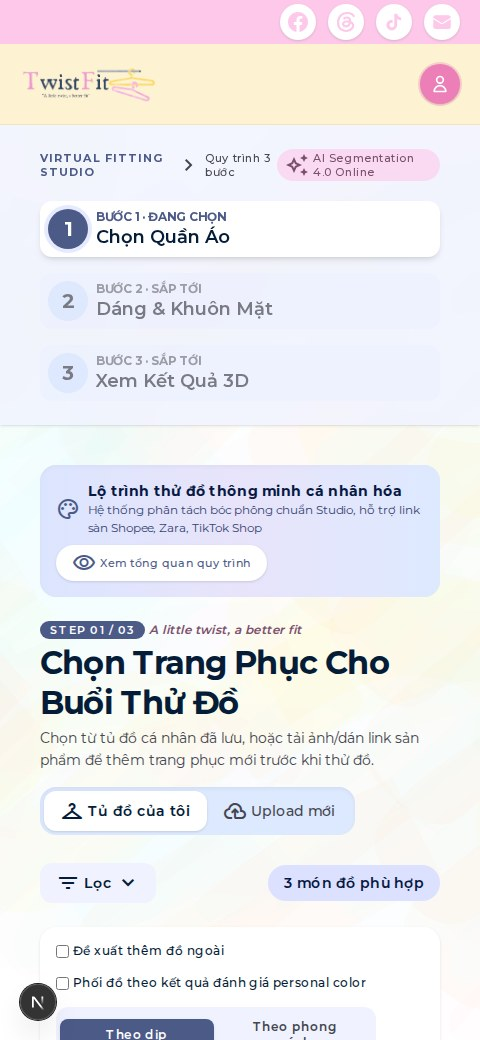
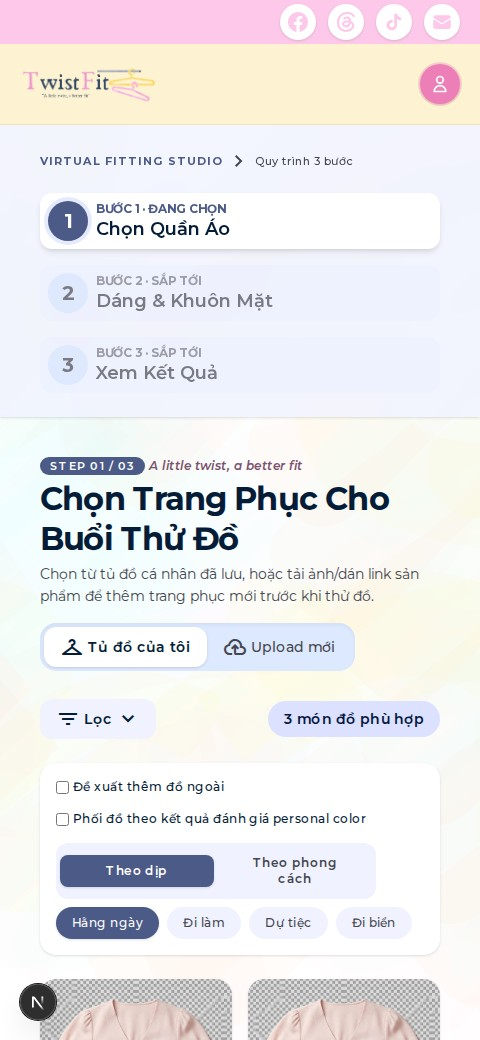
feat(home): recapture feature-showcase mockups and redesign with layered backgrounds
Replace the stale hand-edited mockup screenshots with real captures from
the live app (via headless Chromium), fixing the leftover "3D" wording
and swapping the broken Camera AR mockup for a real capture of the
/camera-frame page (oval placeholder patched to a gray checkerboard
since a live camera feed can't be captured headlessly).

Redesign the phone-mockup composition to match a reference layout: a
large background photo behind the phone (cropped from the raw content
folder via face-detection), with the phone overlapping to one side via
flexbox + negative margin instead of hand-tuned absolute-position math.

diff --git a/components/home/PhoneMockupStepper.tsx b/components/home/PhoneMockupStepper.tsx
@@ -4,6 +4,7 @@ type PhoneMockupStepperImage = {
   key: string
   src: string
   alt: string
+  bg?: string
 }
 
 type PhoneMockupStepperProps = {
@@ -16,10 +17,34 @@ export default function PhoneMockupStepper({ images, activeIndex, onSelect }: Ph
   const activeImage = images[activeIndex]
 
   return (
-    <div className="flex flex-col items-center gap-space-md">
-      <div className="w-full max-w-[240px] overflow-hidden rounded-[28px] border-[6px] border-on-surface shadow-xl">
-        {/* eslint-disable-next-line @next/next/no-img-element */}
-        <img src={activeImage.src} alt={activeImage.alt} className="block w-full" />
+    <div className="flex flex-col items-center gap-space-lg">
+      <div className="relative flex w-full max-w-[420px] items-center justify-center p-2 sm:p-4">
+        {activeImage.bg && (
+          <div className="relative z-10 -mr-8 h-[440px] w-[58%] -rotate-1 overflow-hidden rounded-3xl shadow-2xl transition-transform duration-500 hover:rotate-0 sm:-mr-10 sm:h-[500px] sm:w-[60%]">
+            {/* eslint-disable-next-line @next/next/no-img-element */}
+            <img src={activeImage.bg} alt="" aria-hidden="true" className="h-full w-full object-cover object-center" />
+          </div>
+        )}
+        <div
+          className={`relative z-20 h-[400px] w-[185px] shrink-0 overflow-hidden rounded-[32px] border-[7px] border-on-surface bg-surface shadow-2xl transition-transform duration-300 hover:-translate-y-1 sm:h-[450px] sm:w-[208px] ${
+            !activeImage.bg ? 'mx-auto' : ''
+          }`}
+        >
+          {/* eslint-disable-next-line @next/next/no-img-element */}
+          <img src={activeImage.src} alt={activeImage.alt} className="h-full w-full object-cover object-top" />
+        </div>
+        {activeImage.bg && (
+          <>
+            <div
+              aria-hidden="true"
+              className="absolute -left-6 -top-6 -z-10 h-40 w-40 rounded-full bg-secondary-container/40 blur-3xl"
+            />
+            <div
+              aria-hidden="true"
+              className="absolute -bottom-8 -right-8 -z-10 h-48 w-48 rounded-full bg-primary-fixed/50 blur-3xl"
+            />
+          </>
+        )}
       </div>
       <div className="flex items-center">
         {images.map((image, index) => (

diff --git a/lib/featureShowcaseSteps.ts b/lib/featureShowcaseSteps.ts
@@ -3,17 +3,42 @@ export type FeatureKey = 'colorTest' | 'outfit'
 export type FeatureStepImage = {
   key: string
   src: string
+  bg: string
 }
 
 export const FEATURE_STEP_IMAGES = {
   colorTest: [
-    { key: 'quiz', src: '/home/feature-steps/color-test-quiz.jpg' },
-    { key: 'result', src: '/home/feature-steps/color-test-result.jpg' },
-    { key: 'ar', src: '/home/feature-steps/color-test-ar.jpg' },
+    {
+      key: 'quiz',
+      src: '/home/feature-steps/color-test-quiz.jpg',
+      bg: '/home/feature-steps/backgrounds/color-test-quiz-bg.jpg',
+    },
+    {
+      key: 'result',
+      src: '/home/feature-steps/color-test-result.jpg',
+      bg: '/home/feature-steps/backgrounds/color-test-result-bg.jpg',
+    },
+    {
+      key: 'ar',
+      src: '/home/feature-steps/color-test-ar.jpg',
+      bg: '/home/feature-steps/backgrounds/color-test-ar-bg.jpg',
+    },
   ],
   outfit: [
-    { key: 'chooseGarment', src: '/home/feature-steps/outfit-choose-garment.jpg' },
-    { key: 'modelAndFace', src: '/home/feature-steps/outfit-model-and-face.jpg' },
-    { key: 'viewResult', src: '/home/feature-steps/outfit-view-result.jpg' },
+    {
+      key: 'chooseGarment',
+      src: '/home/feature-steps/outfit-choose-garment.jpg',
+      bg: '/home/feature-steps/backgrounds/outfit-choose-garment-bg.jpg',
+    },
+    {
+      key: 'modelAndFace',
+      src: '/home/feature-steps/outfit-model-and-face.jpg',
+      bg: '/home/feature-steps/backgrounds/outfit-model-and-face-bg.jpg',
+    },
+    {
+      key: 'viewResult',
+      src: '/home/feature-steps/outfit-view-result.jpg',
+      bg: '/home/feature-steps/backgrounds/outfit-view-result-bg.jpg',
+    },
   ],
 } as const satisfies Record<FeatureKey, FeatureStepImage[]>

diff --git a/components/home/PhoneMockupStepper.test.tsx b/components/home/PhoneMockupStepper.test.tsx
@@ -3,15 +3,22 @@ import { render, screen, fireEvent } from '@testing-library/react'
 import PhoneMockupStepper from './PhoneMockupStepper'
 
 const IMAGES = [
-  { key: 'a', src: '/a.jpg', alt: 'A' },
-  { key: 'b', src: '/b.jpg', alt: 'B' },
-  { key: 'c', src: '/c.jpg', alt: 'C' },
+  { key: 'a', src: '/a.jpg', alt: 'A', bg: '/a-bg.jpg' },
+  { key: 'b', src: '/b.jpg', alt: 'B', bg: '/b-bg.jpg' },
+  { key: 'c', src: '/c.jpg', alt: 'C', bg: '/c-bg.jpg' },
 ]
 
 describe('PhoneMockupStepper', () => {
   it('shows the image at activeIndex', () => {
     render(<PhoneMockupStepper images={IMAGES} activeIndex={1} onSelect={vi.fn()} />)
     expect(screen.getByAltText('B')).toBeInTheDocument()
+  })
+
+  it('shows the background image matching activeIndex', () => {
+    render(<PhoneMockupStepper images={IMAGES} activeIndex={1} onSelect={vi.fn()} />)
+    expect(screen.getByAltText('B')).toBeInTheDocument()
+    const bgImage = document.querySelector('img[src="/b-bg.jpg"]')
+    expect(bgImage).toBeInTheDocument()
   })
 
   it('renders one step button per image', () => {

diff --git a/lib/featureShowcaseSteps.test.ts b/lib/featureShowcaseSteps.test.ts
@@ -21,4 +21,12 @@ describe('featureShowcaseSteps', () => {
       }
     }
   })
+
+  it('points every background image at the feature-steps/backgrounds directory as a jpg', () => {
+    for (const images of Object.values(FEATURE_STEP_IMAGES)) {
+      for (const image of images) {
+        expect(image.bg).toMatch(/^\/home\/feature-steps\/backgrounds\/[a-z0-9-]+\.jpg$/)
+      }
+    }
+  })
 })

diff --git a/components/home/FeatureSection.tsx b/components/home/FeatureSection.tsx
@@ -20,6 +20,7 @@ export default function FeatureSection({ featureKey, accentClassName, cta }: Fea
   const stepperImages = images.map((image, index) => ({
     key: image.key,
     src: image.src,
+    bg: image.bg,
     alt: t(`steps.${image.key}.title`) || `Step ${index + 1}`,
   }))
 
